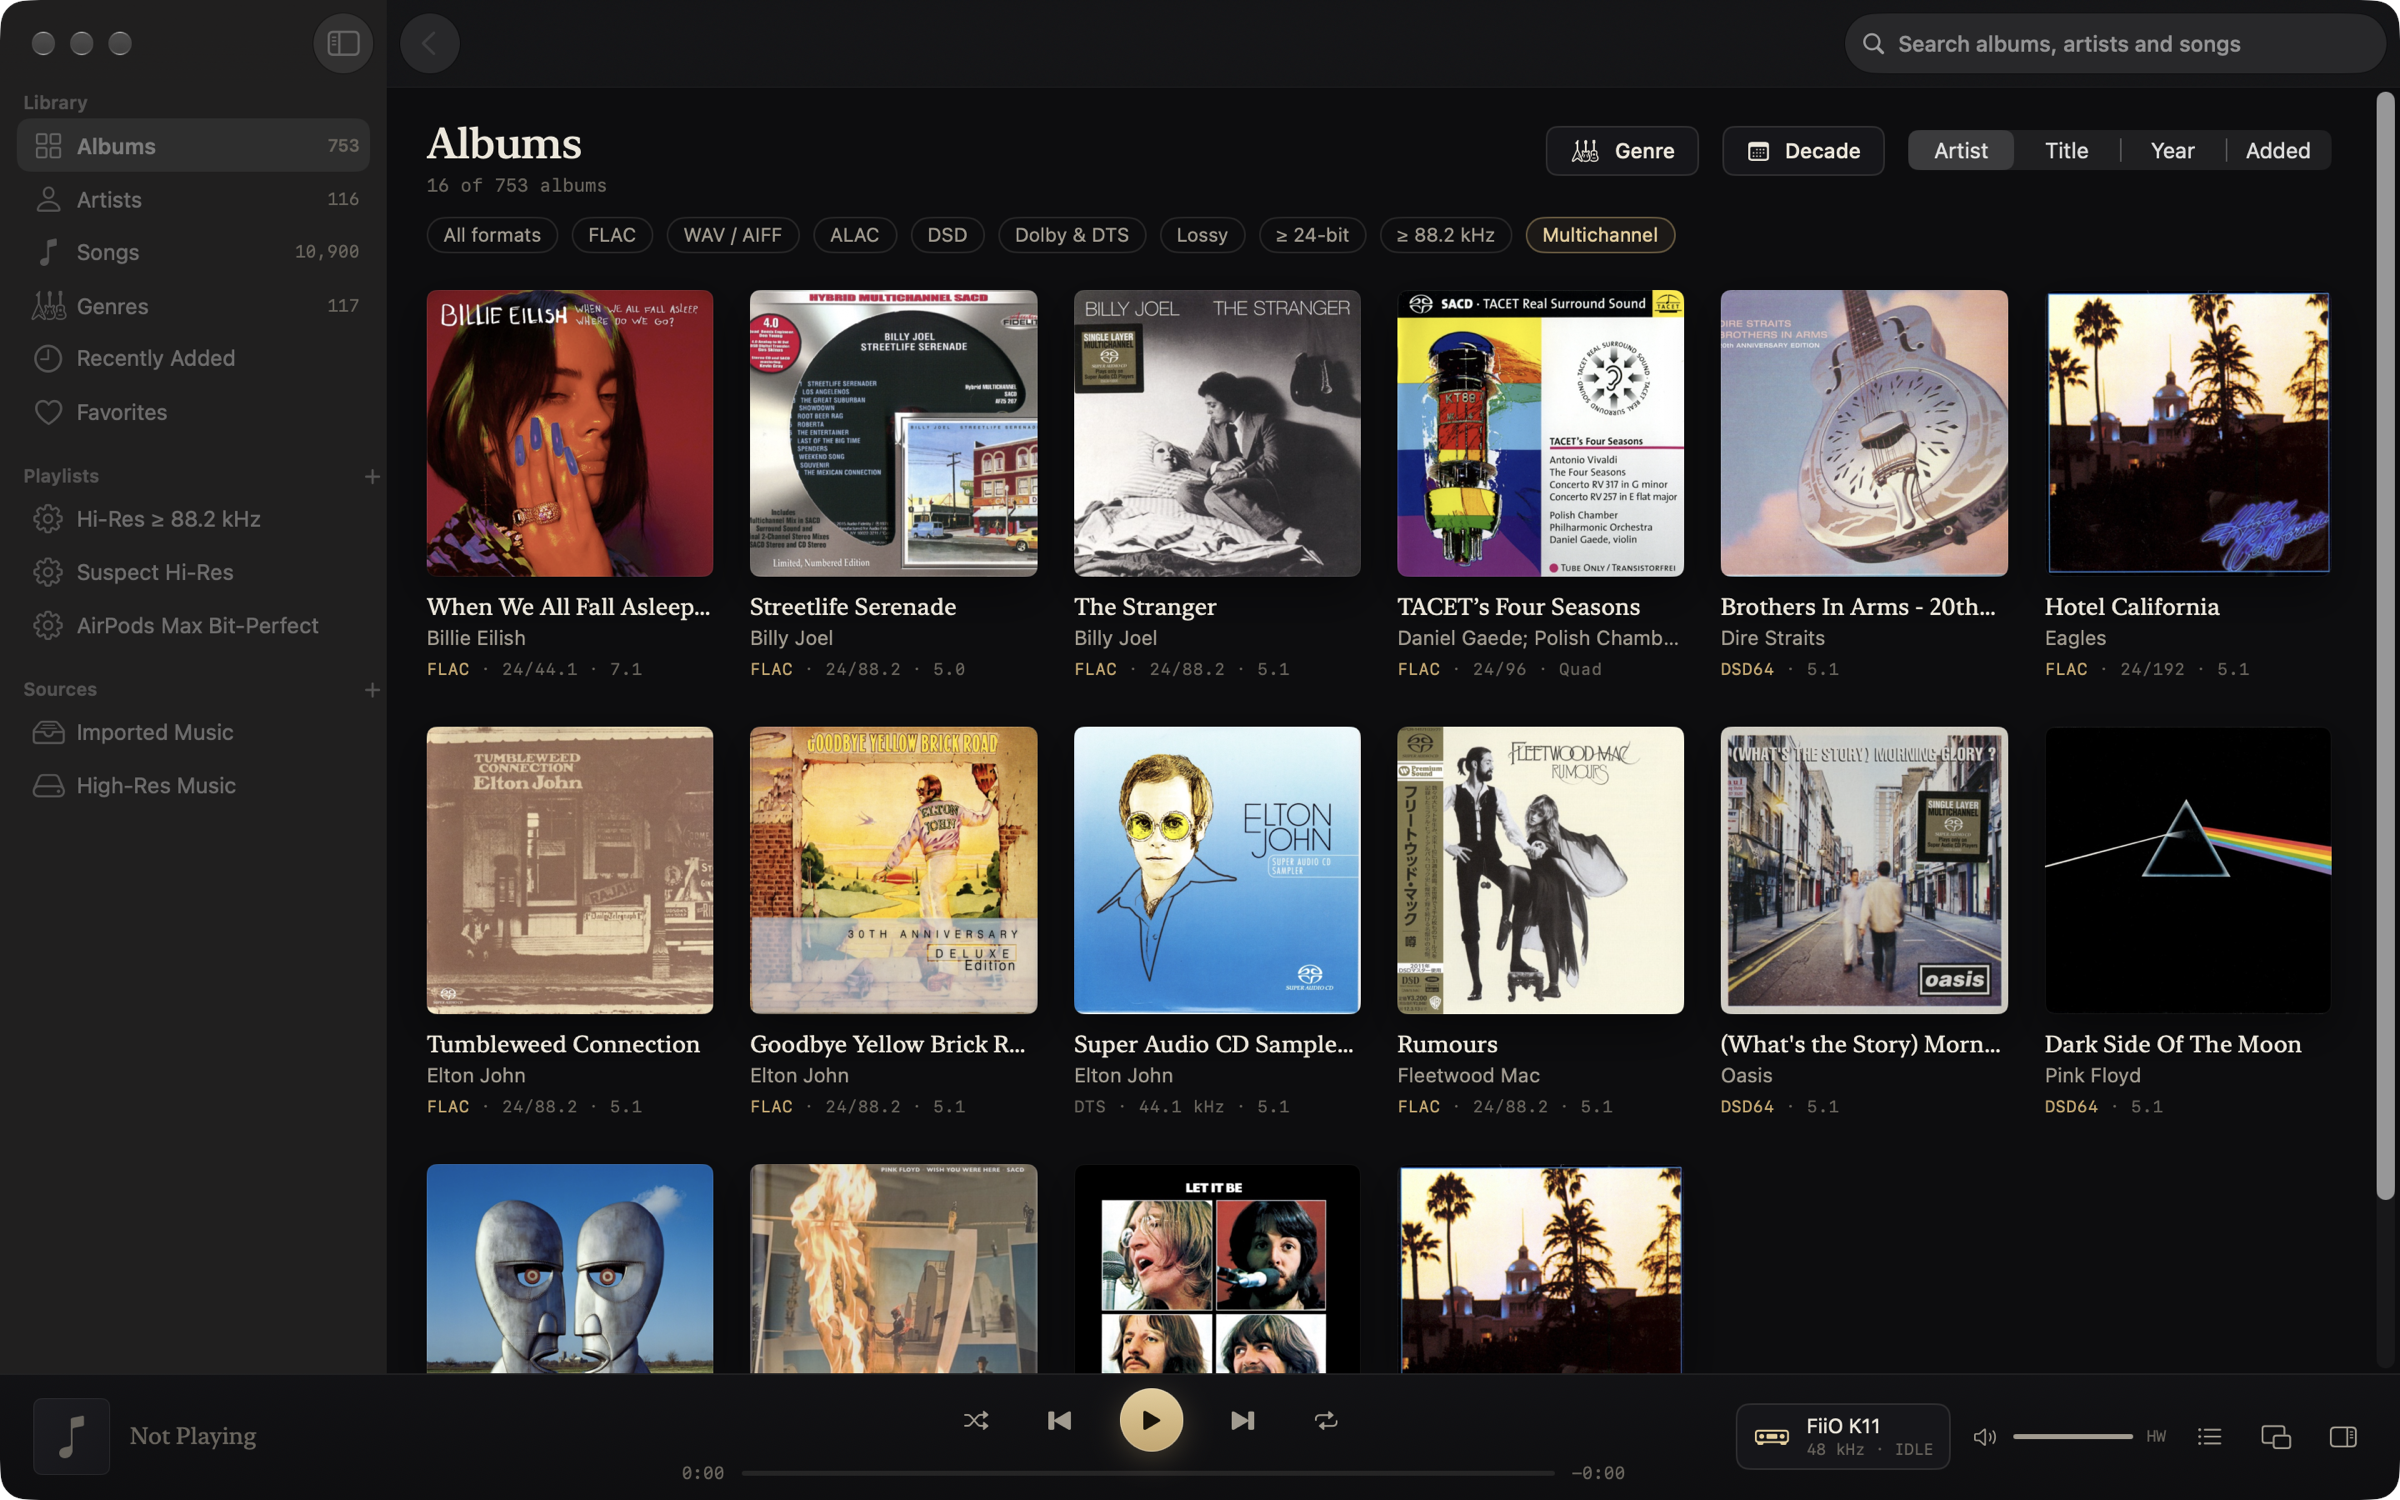
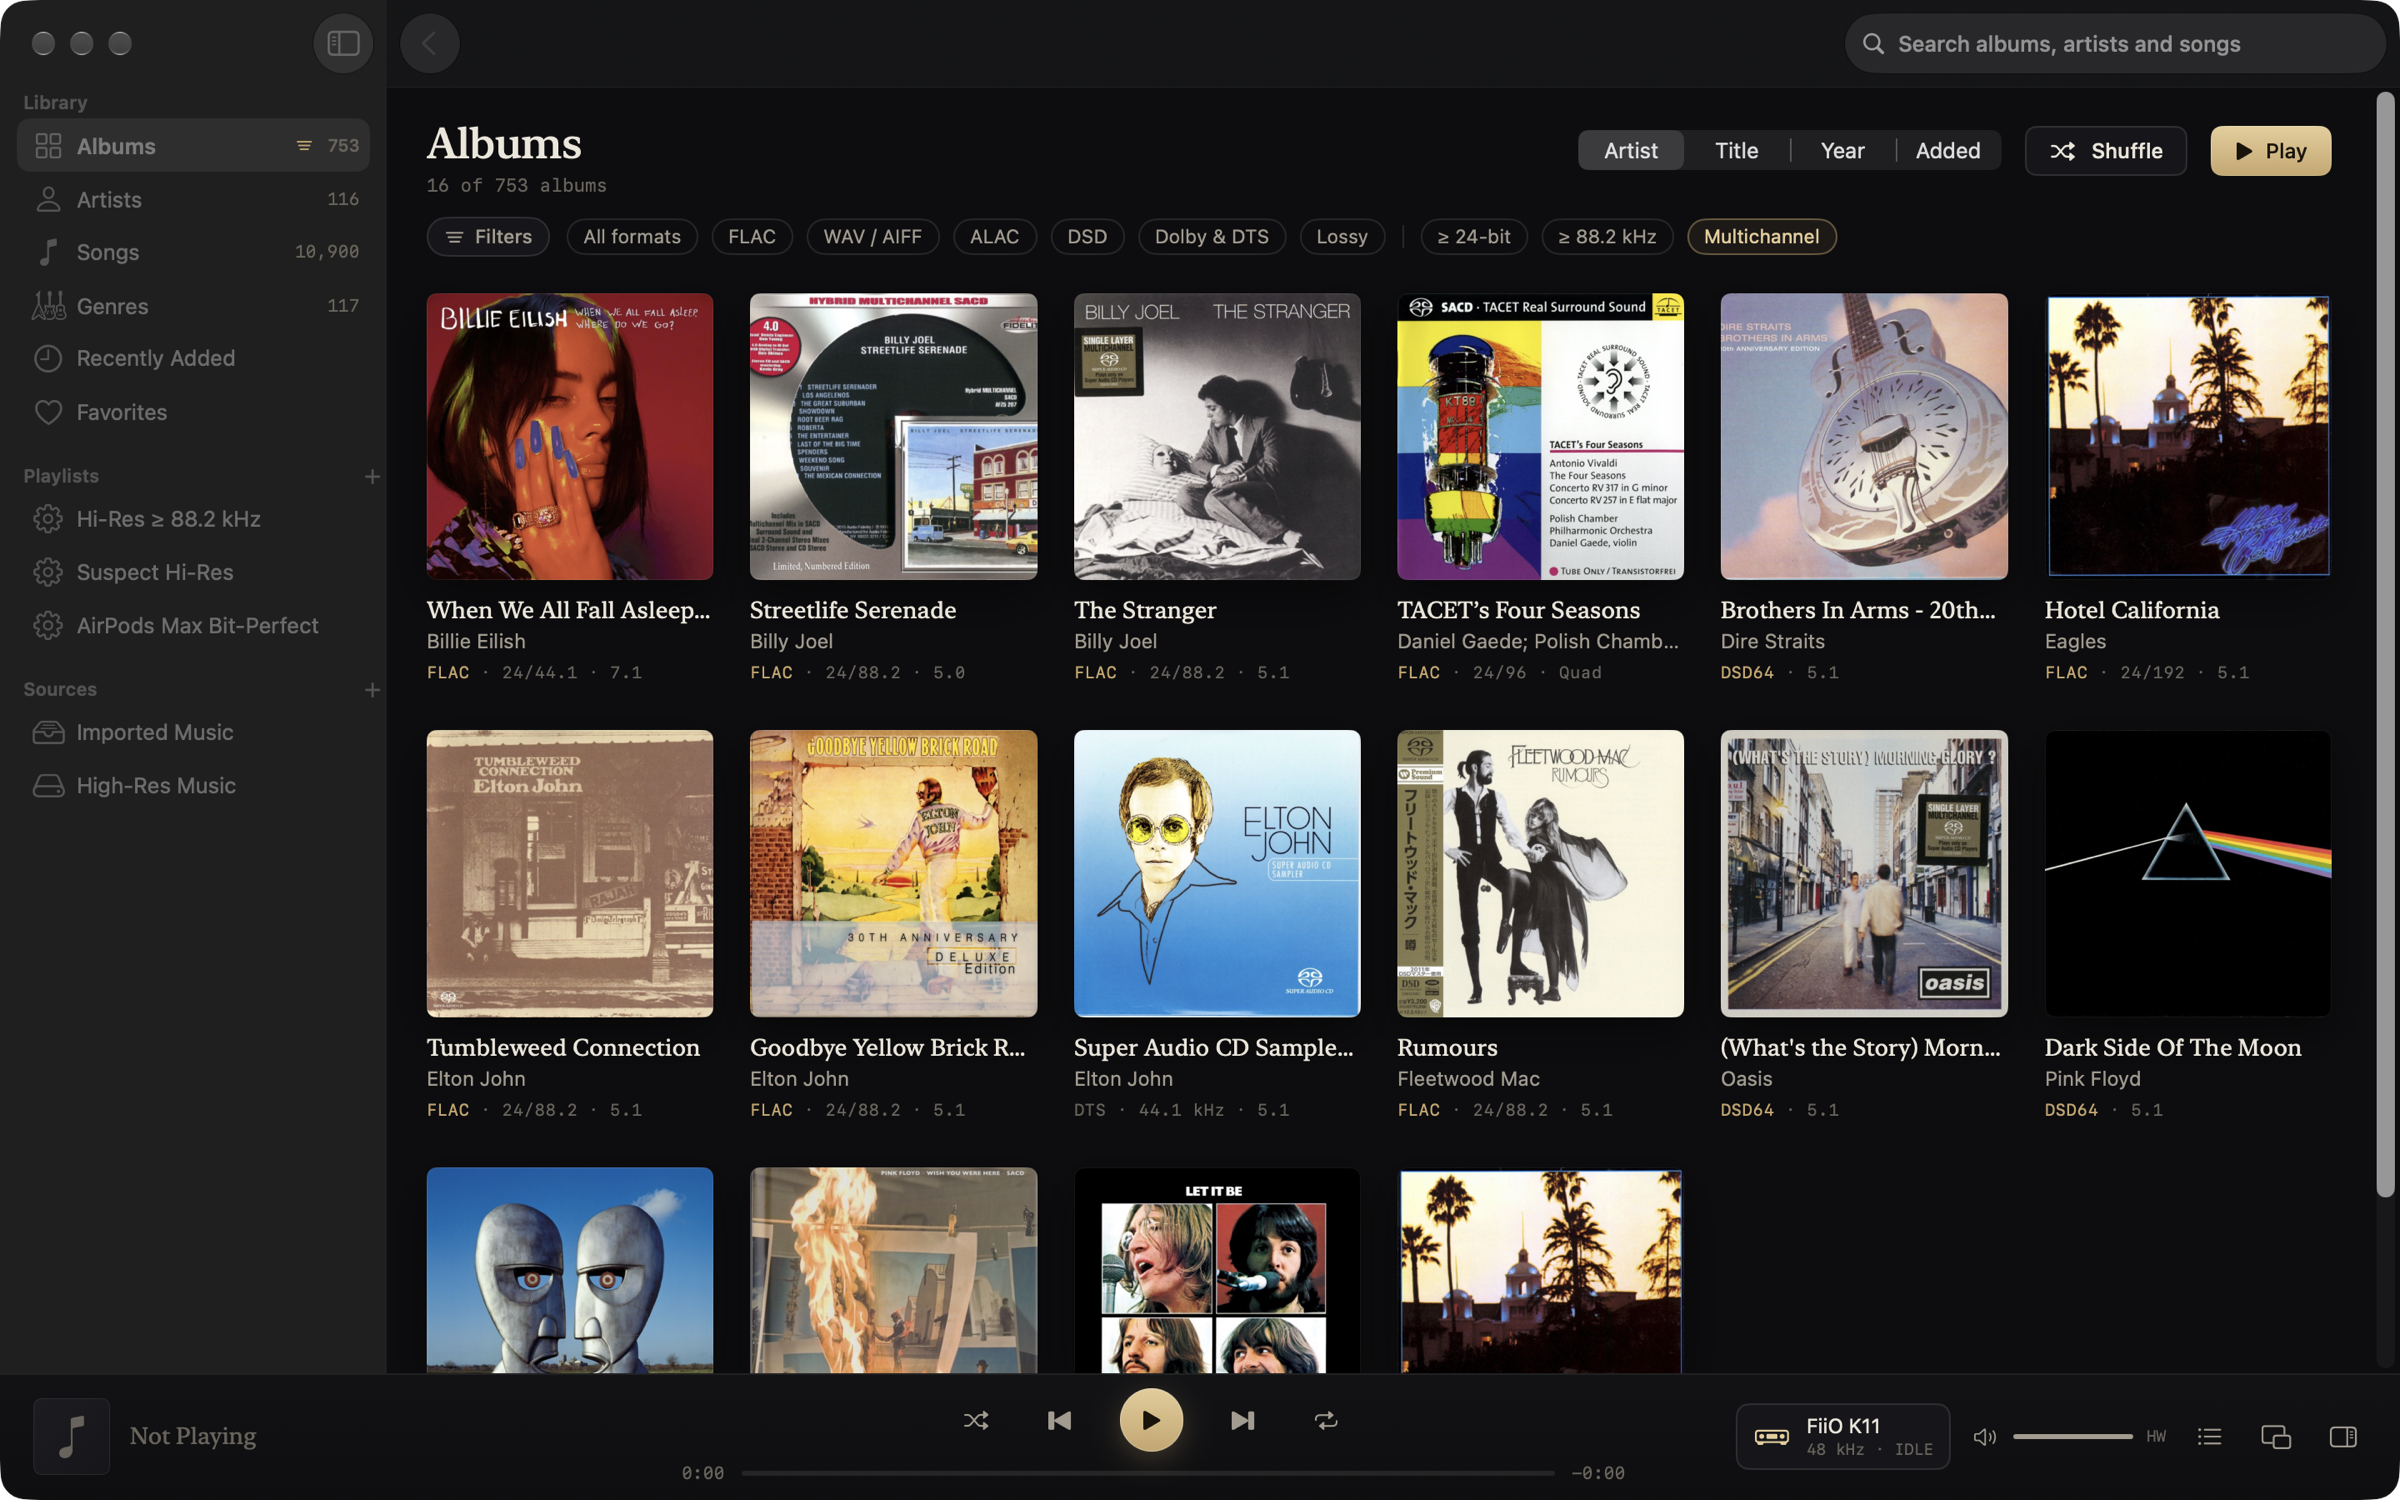
Screenshots: Genres, Albums, search and fake-hi-res detection retaken with the filter bar
The four shots of pages that changed now show the chip row, the Filters
button and the Play/Shuffle buttons. The fake-hi-res shot selects the
flagged song instead of playing it (no audio needed). The album-page,
mini-player and Spatial Audio shots didn't change.

Rows of chips wider than the page now fade out at the right edge instead
of cutting a chip in half (they scroll); -VespertineSelectSong selects
songs by title for shots like this one.

diff --git a/App/Sources/Views/FilterViews.swift b/App/Sources/Views/FilterViews.swift
@@ -70,7 +70,9 @@ struct FilterBar: View {
                         }
                     }
                     .padding(.vertical, 1)
+                    .padding(.trailing, Self.fade)
                 }
+                .mask(Self.edgeFade)
             }
             if !tokens.isEmpty {
                 ScrollView(.horizontal, showsIndicators: false) {
@@ -93,7 +95,9 @@ struct FilterBar: View {
                             .padding(.leading, 4)
                     }
                     .padding(.vertical, 1)
+                    .padding(.trailing, Self.fade)
                 }
+                .mask(Self.edgeFade)
                 .transition(.opacity)
             }
         }
@@ -104,6 +108,15 @@ struct FilterBar: View {
             panelFacet = request.facet
             showPanel = true
             model.filterPanelRequest = nil
+        }
+    }
+
+    /// Rows wider than the page fade out at the right edge instead of cutting a chip in half (they scroll).
+    private static let fade: CGFloat = 28
+    private static var edgeFade: some View {
+        HStack(spacing: 0) {
+            Color.black
+            LinearGradient(colors: [.black, .clear], startPoint: .leading, endPoint: .trailing).frame(width: fade)
         }
     }
 

diff --git a/App/Sources/App/DeveloperHooks.swift b/App/Sources/App/DeveloperHooks.swift
@@ -115,6 +115,10 @@ enum DeveloperHooks {
             let tracks = model.library.tracks(albumKey: album.key).filter { select == "all" || numbers.contains($0.trackNumber ?? -1) }
             model.selectedTrackIDs = Set(tracks.compactMap(\.id))
         }
+        // `-VespertineSelectSong "<title>"`: select songs by title (shows their details or analysis without playing).
+        if let title = d.string(forKey: "VespertineSelectSong") {
+            model.selectedTrackIDs = Set(model.library.allTracks().filter { $0.title == title }.compactMap(\.id))
+        }
         if let tab = d.string(forKey: "VespertineInspectorTab") {
             model.inspectorTab = InspectorTab.allCases.first { $0.rawValue.lowercased().hasPrefix(tab.lowercased()) } ?? .nowPlaying
         }
